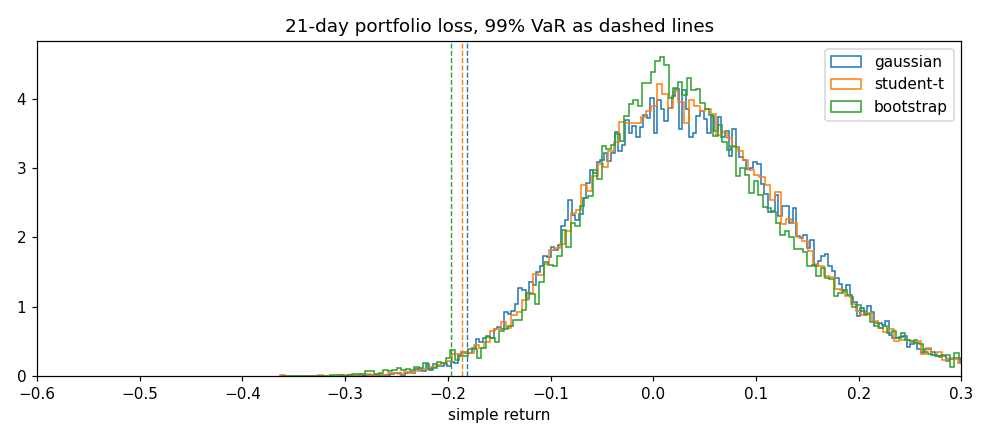
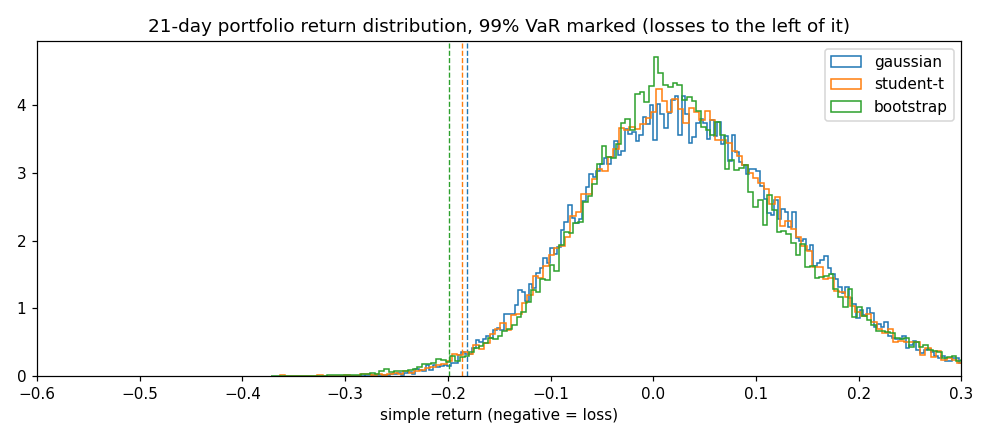
clarify var figure labels

diff --git a/mc/risk.py b/mc/risk.py
@@ -94,8 +94,8 @@ def main() -> None:
         var, es = var_es(port, 0.99)
         ax.axvline(-var, color=colors[method], ls="--", lw=0.9)
     ax.set_xlim(-0.6, 0.3)
-    ax.set_title("21-day portfolio loss, 99% VaR as dashed lines")
-    ax.set_xlabel("simple return")
+    ax.set_title("21-day portfolio return distribution, 99% VaR marked (losses to the left of it)")
+    ax.set_xlabel("simple return (negative = loss)")
     ax.legend()
     fig.tight_layout()
     fig.savefig(FIG / "var_portfolio_21d.png", dpi=110)
